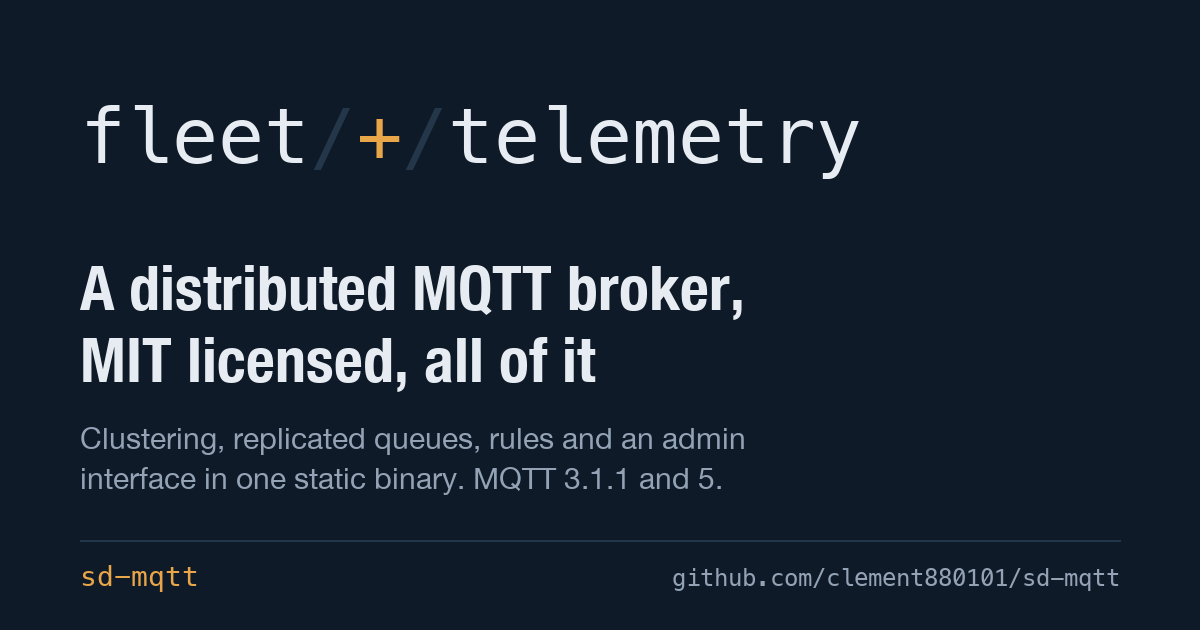
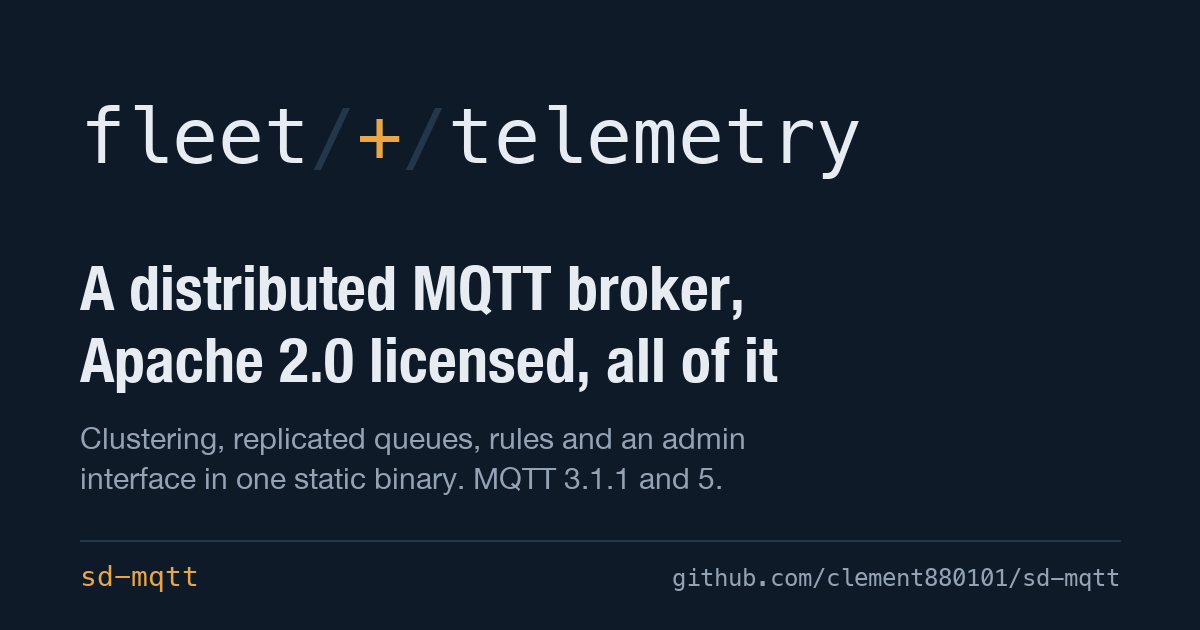
chore: the licence is the Apache License 2.0
LICENSE is now the Apache License 2.0, verbatim from apache.org. It
was MIT. Apache 2.0 is as permissive and adds an explicit patent grant
from contributors. Every statement of the project's own licence
follows: the workspace and fuzz manifests, the web package and its
lock file, the image's OCI label, both notices headers and the
generator that writes one, the README, the design and component
policy, the landing page with its structured data and share card, and
llms.txt. The dependency allow-list is unchanged: MIT and the other
permissive licences it accepts are all compatible with Apache 2.0.

Releases before this commit were published under MIT and remain
available under it; the changelog says so. Clement Chang is the only
author in the history, so no other consent is needed.

Changed region(s): [[0.0617, 0.5127, 0.6475, 0.6333]]

diff --git a/site/index.html b/site/index.html
@@ -4,21 +4,21 @@
 <meta charset="utf-8">
 <meta name="viewport" content="width=device-width, initial-scale=1">
 <meta name="color-scheme" content="light dark">
-<title>sd-mqtt — an MIT-licensed distributed MQTT broker in Rust</title>
-<meta name="description" content="sd-mqtt is an MIT-licensed distributed MQTT broker in Rust: MQTT 3.1.1 and 5, clustering with replicated queues, rules and an admin UI in one static binary.">
+<title>sd-mqtt — an Apache-2.0 distributed MQTT broker in Rust</title>
+<meta name="description" content="sd-mqtt is an Apache-2.0 distributed MQTT broker in Rust: MQTT 3.1.1 and 5, clustering with replicated queues, rules and an admin UI in one static binary.">
 <link rel="canonical" href="https://clement880101.github.io/sd-mqtt/">
 <meta property="og:type" content="website">
 <meta property="og:site_name" content="sd-mqtt">
-<meta property="og:title" content="sd-mqtt — an MIT-licensed distributed MQTT broker in Rust">
-<meta property="og:description" content="sd-mqtt is an MIT-licensed distributed MQTT broker in Rust: MQTT 3.1.1 and 5, clustering with replicated queues, rules and an admin UI in one static binary.">
+<meta property="og:title" content="sd-mqtt — an Apache-2.0 distributed MQTT broker in Rust">
+<meta property="og:description" content="sd-mqtt is an Apache-2.0 distributed MQTT broker in Rust: MQTT 3.1.1 and 5, clustering with replicated queues, rules and an admin UI in one static binary.">
 <meta property="og:url" content="https://clement880101.github.io/sd-mqtt/">
 <meta property="og:image" content="https://clement880101.github.io/sd-mqtt/social.png">
 <meta property="og:image:width" content="1200">
 <meta property="og:image:height" content="630">
-<meta property="og:image:alt" content="sd-mqtt: a distributed MQTT broker, MIT licensed, all of it">
+<meta property="og:image:alt" content="sd-mqtt: a distributed MQTT broker, Apache 2.0 licensed, all of it">
 <meta name="twitter:card" content="summary_large_image">
-<meta name="twitter:title" content="sd-mqtt — an MIT-licensed distributed MQTT broker in Rust">
-<meta name="twitter:description" content="sd-mqtt is an MIT-licensed distributed MQTT broker in Rust: MQTT 3.1.1 and 5, clustering with replicated queues, rules and an admin UI in one static binary.">
+<meta name="twitter:title" content="sd-mqtt — an Apache-2.0 distributed MQTT broker in Rust">
+<meta name="twitter:description" content="sd-mqtt is an Apache-2.0 distributed MQTT broker in Rust: MQTT 3.1.1 and 5, clustering with replicated queues, rules and an admin UI in one static binary.">
 <meta name="twitter:image" content="https://clement880101.github.io/sd-mqtt/social.png">
 <script type="application/ld+json">
 {
@@ -28,14 +28,14 @@
    "@type": "SoftwareApplication",
    "@id": "https://clement880101.github.io/sd-mqtt/#software",
    "name": "sd-mqtt",
-   "description": "sd-mqtt is an MIT-licensed distributed MQTT broker in Rust: MQTT 3.1.1 and 5, clustering with replicated queues, rules and an admin UI in one static binary.",
+   "description": "sd-mqtt is an Apache-2.0 distributed MQTT broker in Rust: MQTT 3.1.1 and 5, clustering with replicated queues, rules and an admin UI in one static binary.",
    "url": "https://clement880101.github.io/sd-mqtt/",
    "image": "https://clement880101.github.io/sd-mqtt/social.png",
    "applicationCategory": "DeveloperApplication",
    "applicationSubCategory": "MQTT broker",
    "operatingSystem": "Linux, macOS",
    "softwareVersion": "0.7.1",
-   "license": "https://opensource.org/licenses/MIT",
+   "license": "https://www.apache.org/licenses/LICENSE-2.0",
    "downloadUrl": "https://github.com/clement880101/sd-mqtt/releases",
    "installUrl": "https://github.com/clement880101/sd-mqtt/blob/main/docs/setup.md",
    "releaseNotes": "https://github.com/clement880101/sd-mqtt/blob/main/CHANGELOG.md",
@@ -66,7 +66,7 @@
    "name": "sd-mqtt",
    "codeRepository": "https://github.com/clement880101/sd-mqtt",
    "programmingLanguage": "Rust",
-   "license": "https://opensource.org/licenses/MIT",
+   "license": "https://www.apache.org/licenses/LICENSE-2.0",
    "targetProduct": {
     "@id": "https://clement880101.github.io/sd-mqtt/#software"
    }
@@ -80,7 +80,7 @@
      "name": "Is sd-mqtt free for commercial use?",
      "acceptedAnswer": {
       "@type": "Answer",
-      "text": "Yes. The whole repository and the whole binary are under the MIT licence, including clustering, queue replication, rules, authentication and the admin interface. There is no enterprise edition and no feature behind a commercial licence."
+      "text": "Yes. The whole repository and the whole binary are under the Apache License 2.0, including clustering, queue replication, rules, authentication and the admin interface. There is no enterprise edition and no feature behind a commercial licence."
      }
     },
     {
@@ -104,7 +104,7 @@
      "name": "How is sd-mqtt different from EMQX?",
      "acceptedAnswer": {
       "@type": "Answer",
-      "text": "From version 5.9, EMQX is under the Business Source License 1.1, which allows one node in production and needs a commercial licence to run a cluster. sd-mqtt is MIT licensed and its clustering is free to run at any size."
+      "text": "From version 5.9, EMQX is under the Business Source License 1.1, which allows one node in production and needs a commercial licence to run a cluster. sd-mqtt is under the Apache License 2.0 and its clustering is free to run at any size."
      }
     },
     {
@@ -323,8 +323,8 @@
     </ul>
 
     <div class="lede">
-      <h1 id="title">A distributed MQTT broker, MIT licensed, all of it</h1>
-      <p>Clustering, replicated queues, rules that carry messages to and from HTTP, and the admin interface are all in the one binary, under the MIT licence. There is no enterprise edition and no open-core line: what is on this page is what you get. MQTT 3.1.1 and 5. Version 0.7.1.</p>
+      <h1 id="title">A distributed MQTT broker, Apache 2.0 licensed, all of it</h1>
+      <p>Clustering, replicated queues, rules that carry messages to and from HTTP, and the admin interface are all in the one binary, under the Apache License 2.0. There is no enterprise edition and no open-core line: what is on this page is what you get. MQTT 3.1.1 and 5. Version 0.7.1.</p>
       <div class="actions">
         <a class="button primary" href="https://github.com/clement880101/sd-mqtt/releases/tag/v0.7.1">Download 0.7.1</a>
         <a class="button" href="https://github.com/clement880101/sd-mqtt/blob/main/README.md">Read the documentation</a>
@@ -336,7 +336,7 @@
     <div class="wrap">
       <h2 id="does-title">What the sd-mqtt broker does</h2>
       <dl class="does">
-        <dt>MIT licensed, every feature</dt>
+        <dt>Apache 2.0, every feature</dt>
         <dd>One licence over the whole repository and the whole binary. Clustering, replication, rules, authentication and the interface are not an upgrade; they are the product. The notices for everything compiled in ship inside every archive and image.</dd>
         <dt>MQTT 3.1.1 and 5</dt>
         <dd>Shared subscriptions, retained messages, wills, topic aliases and enhanced authentication, checked against Eclipse Paho's interoperability suite over TCP, TLS and WebSocket.</dd>
@@ -379,7 +379,7 @@
             <tr><th scope="col">Broker</th><th scope="col">Licence</th><th scope="col">Clustering without a commercial licence</th><th scope="col">Admin interface included</th><th scope="col">Image, compressed</th><th scope="col">Source</th></tr>
           </thead>
           <tbody>
-            <tr class="ours"><td>sd-mqtt</td><td>MIT</td><td>Yes, with replicated queues</td><td>Yes</td><td class="num">5.5 MB</td><td class="cite"><a href="https://github.com/clement880101/sd-mqtt/blob/main/LICENSE">licence</a></td></tr>
+            <tr class="ours"><td>sd-mqtt</td><td>Apache-2.0</td><td>Yes, with replicated queues</td><td>Yes</td><td class="num">5.5 MB</td><td class="cite"><a href="https://github.com/clement880101/sd-mqtt/blob/main/LICENSE">licence</a></td></tr>
             <tr><td>Mosquitto 2</td><td>EPL-2.0 or EDL-1.0</td><td>No, bridging between brokers</td><td>No</td><td class="num">13.0 MB</td><td class="cite"><a href="https://mosquitto.org/">mosquitto.org</a></td></tr>
             <tr><td>NanoMQ</td><td>MIT</td><td>No, bridging between brokers</td><td>No</td><td class="num">4.8 MB</td><td class="cite"><a href="https://nanomq.io/">nanomq.io</a></td></tr>
             <tr><td>EMQX 5.9 and later</td><td>BSL 1.1, free in production for one node</td><td>No, a commercial licence</td><td>Yes</td><td class="num">150.2 MB</td><td class="cite"><a href="https://www.emqx.com/en/content/license-faq">licence FAQ</a></td></tr>
@@ -427,13 +427,13 @@ cd sdmqtt-0.7.1-x86_64-unknown-linux-musl
       <h2 id="faq-title">Questions</h2>
       <dl class="does">
         <dt>Is sd-mqtt free for commercial use?</dt>
-        <dd>Yes. The whole repository and the whole binary are under the MIT licence, including clustering, queue replication, rules, authentication and the admin interface. There is no enterprise edition and no feature behind a commercial licence.</dd>
+        <dd>Yes. The whole repository and the whole binary are under the Apache License 2.0, including clustering, queue replication, rules, authentication and the admin interface. There is no enterprise edition and no feature behind a commercial licence.</dd>
         <dt>Which MQTT versions does sd-mqtt support?</dt>
         <dd>MQTT 3.1.1 and MQTT 5, over TCP, TLS, WebSocket and secure WebSocket. Shared subscriptions, retained messages, wills, topic aliases and enhanced authentication with SCRAM-SHA-256 are included, and the broker is checked against Eclipse Paho&#x27;s interoperability suite.</dd>
         <dt>How is sd-mqtt different from Mosquitto?</dt>
         <dd>Mosquitto is a single-node broker that links brokers by bridging. sd-mqtt is a cluster: nodes route publications to each other&#x27;s subscribers, a session follows its client to whichever node it reconnects to, and each queue is kept on more than one node. It also ships rules to and from HTTP and an admin interface in the same binary.</dd>
         <dt>How is sd-mqtt different from EMQX?</dt>
-        <dd>From version 5.9, EMQX is under the Business Source License 1.1, which allows one node in production and needs a commercial licence to run a cluster. sd-mqtt is MIT licensed and its clustering is free to run at any size.</dd>
+        <dd>From version 5.9, EMQX is under the Business Source License 1.1, which allows one node in production and needs a commercial licence to run a cluster. sd-mqtt is under the Apache License 2.0 and its clustering is free to run at any size.</dd>
         <dt>Does sd-mqtt need a database or other services?</dt>
         <dd>No. It is one static binary with an embedded store: give it a directory and sessions, subscriptions, queued messages, retained messages, rules and users survive a restart. Without a directory it runs in memory.</dd>
         <dt>Which platforms does sd-mqtt run on?</dt>
@@ -450,7 +450,7 @@ cd sdmqtt-0.7.1-x86_64-unknown-linux-musl
 
 <footer>
   <div class="wrap">
-    <span>sd-mqtt is MIT licensed, every part of it.</span>
+    <span>sd-mqtt is under the Apache License 2.0, every part of it.</span>
     <ul>
       <li><a href="https://github.com/clement880101/sd-mqtt">Source</a></li>
       <li><a href="https://github.com/clement880101/sd-mqtt/releases">Releases</a></li>

diff --git a/services/web/vite.config.ts b/services/web/vite.config.ts
@@ -36,7 +36,7 @@ const KNOWN_IN_BUNDLE = 'preact';
  * The same policy as `deny.toml` applies to the Rust side, minus the
  * identifiers that only ever appear on a crate. Section "License
  * policy" of docs/components.md: the project's own
- * code is MIT and third-party code is MIT-compatible permissive,
+ * code is Apache-2.0 and third-party code is permissive and compatible,
  * which is a broader statement and not the same one.
  */
 const ALLOWED = new Set([

diff --git a/scripts/test_site.py b/scripts/test_site.py
@@ -144,7 +144,7 @@ def main() -> int:
     sitemap = (ROOT / "site/sitemap.xml").read_text() if (ROOT / "site/sitemap.xml").is_file() else ""
     check("the sitemap lists the page", f"<loc>{site}</loc>" in sitemap)
     llms = (ROOT / "site/llms.txt").read_text() if (ROOT / "site/llms.txt").is_file() else ""
-    check("llms.txt says what it is", llms.startswith("# sd-mqtt\n") and "MIT" in llms)
+    check("llms.txt says what it is", llms.startswith("# sd-mqtt\n") and "Apache License 2.0" in llms)
     named = re.findall(rf"https://github.com/{REPO}/blob/main/([^)#\s]+)", llms)
     check("every repository path llms.txt names exists",
           bool(named) and all((ROOT / n).exists() for n in named), str([n for n in named if not (ROOT / n).exists()]))

diff --git a/scripts/rust-notices.py b/scripts/rust-notices.py
@@ -651,9 +651,9 @@ def render(
         "Third-party notices for the sd-mqtt broker (Rust)",
         "=================================================",
         "",
-        "sd-mqtt itself is MIT licensed; see LICENSE at the root of the",
+        "sd-mqtt itself is Apache-2.0 licensed; see LICENSE at the root of the",
         "repository. This file covers the third-party Rust code compiled into",
-        "the `sdmqtt` binary, which is not all MIT and is never claimed to be.",
+        "the `sdmqtt` binary, which is not all Apache-2.0 and is never claimed to be.",
         "",
         "Generated by scripts/rust-notices.py from the packages reachable from",
         "`sdmqtt` along normal dependency edges, for every target this project",

diff --git a/services/broker/crates/admin/build.rs b/services/broker/crates/admin/build.rs
@@ -215,9 +215,9 @@ fn notices(services: &Path, built: bool) -> String {
         "Third-party notices for sd-mqtt\n\
          ===============================\n\
          \n\
-         sd-mqtt is MIT licensed and its own licence is not this file. This is\n\
+         sd-mqtt is Apache-2.0 licensed and its own licence is not this file. This is\n\
          the attribution for the third-party code inside this binary, which is\n\
-         not all MIT and is never claimed to be.\n\
+         not all Apache-2.0 and is never claimed to be.\n\
          \n\
          It is in two halves, produced by two different things from two\n\
          different kinds of artifact, and joined here because a user of the\n\

diff --git a/services/broker/crates/sdmqtt/src/main.rs b/services/broker/crates/sdmqtt/src/main.rs
@@ -72,8 +72,8 @@ enum Command {
     ///
     /// Section 3 and the licence policy in
     /// `docs/components.md`: the code compiled into
-    /// this binary is not all MIT, and the licences it is under ask
-    /// for their text to travel with it. Until this existed nothing
+    /// this binary is not all under the project's licence, and the
+    /// licences it is under ask for their text to travel with it. Until this existed nothing
     /// in the repository carried a single one of them, and the readme
     /// pointed at a file in a release artifact that has never been
     /// built.

diff --git a/README.md b/README.md
@@ -1,6 +1,6 @@
 # sd-mqtt
 
-A distributed MQTT broker under the **MIT licence, all of it**: clustering,
+A distributed MQTT broker under the **Apache License 2.0, all of it**: clustering,
 replicated queues, rules and connectors, authentication and the admin
 interface are in the one binary, with no enterprise edition and no
 open-core line. No external dependencies.
@@ -119,9 +119,11 @@ The `[[listeners]]`, `[[acl]]` and `[[rules]]` tables are file-only.
 
 ## Licensing
 
-sd-mqtt is MIT licensed; see `LICENSE`. It includes third-party
-components under other permissive licenses, and does not claim they are
-all MIT. Two of them are Apache-2.0 with no alternative branch this
+sd-mqtt is licensed under the Apache License 2.0; see `LICENSE`.
+Copyright 2026 Clement Chang. Releases made before the change were
+published under the MIT licence and remain available under it; the
+changelog says which. It includes third-party components under other
+permissive licenses, and does not claim they are all Apache-2.0. Two of them are Apache-2.0 with no alternative branch this
 project's allow list accepts, which asks for the license text to travel
 with the binary.
 

diff --git a/docs/design.md b/docs/design.md
@@ -3,7 +3,7 @@
 Status: approved 2026-09-19.
 
 A distributed MQTT broker in Rust with a built-in admin UI and
-UI-configurable integrations, distributed under the MIT license.
+UI-configurable integrations, distributed under the Apache License 2.0.
 
 ## 1. Goals
 
@@ -41,7 +41,8 @@ Where those analyses identified a behavior required by the MQTT
 specification, that requirement is implemented independently from the
 specification text.
 
-The project is MIT licensed. Dependencies must be MIT-compatible permissive.
+The project is licensed under the Apache License 2.0; releases before the
+change were MIT. Dependencies must be permissive and compatible with it.
 The full policy, including the distinction between distributed code and
 build-time tooling, is in `docs/components.md`.
 

diff --git a/CHANGELOG.md b/CHANGELOG.md
@@ -12,6 +12,13 @@ the milestone you are moving to.** Everything else is description.
 
 ### Changed
 
+- **The licence is now the Apache License 2.0.** It was MIT. Apache 2.0
+  is as permissive and adds an explicit patent grant from contributors.
+  Releases before this one remain available under MIT for anyone who
+  has them; this release and everything after it are Apache-2.0. Every
+  crate, the web package, the image label and the notices headers say
+  so.
+
 - **The documentation is split into features and a setup guide.** The
   README is the licence, a table of features, a quick start and the
   configuration reference. Each feature has a page under

diff --git a/docs/components.md b/docs/components.md
@@ -1,7 +1,7 @@
 # Component selection
 
 Decisions for every third-party component in sd-mqtt, ranked on three
-criteria in order: MIT-compatible permissive license, light dependency tree,
+criteria in order: a permissive license compatible with the project's Apache-2.0, light dependency tree,
 and capability at scale.
 
 Facts were verified against crates.io, lib.rs, docs.rs, npm, bundlephobia
